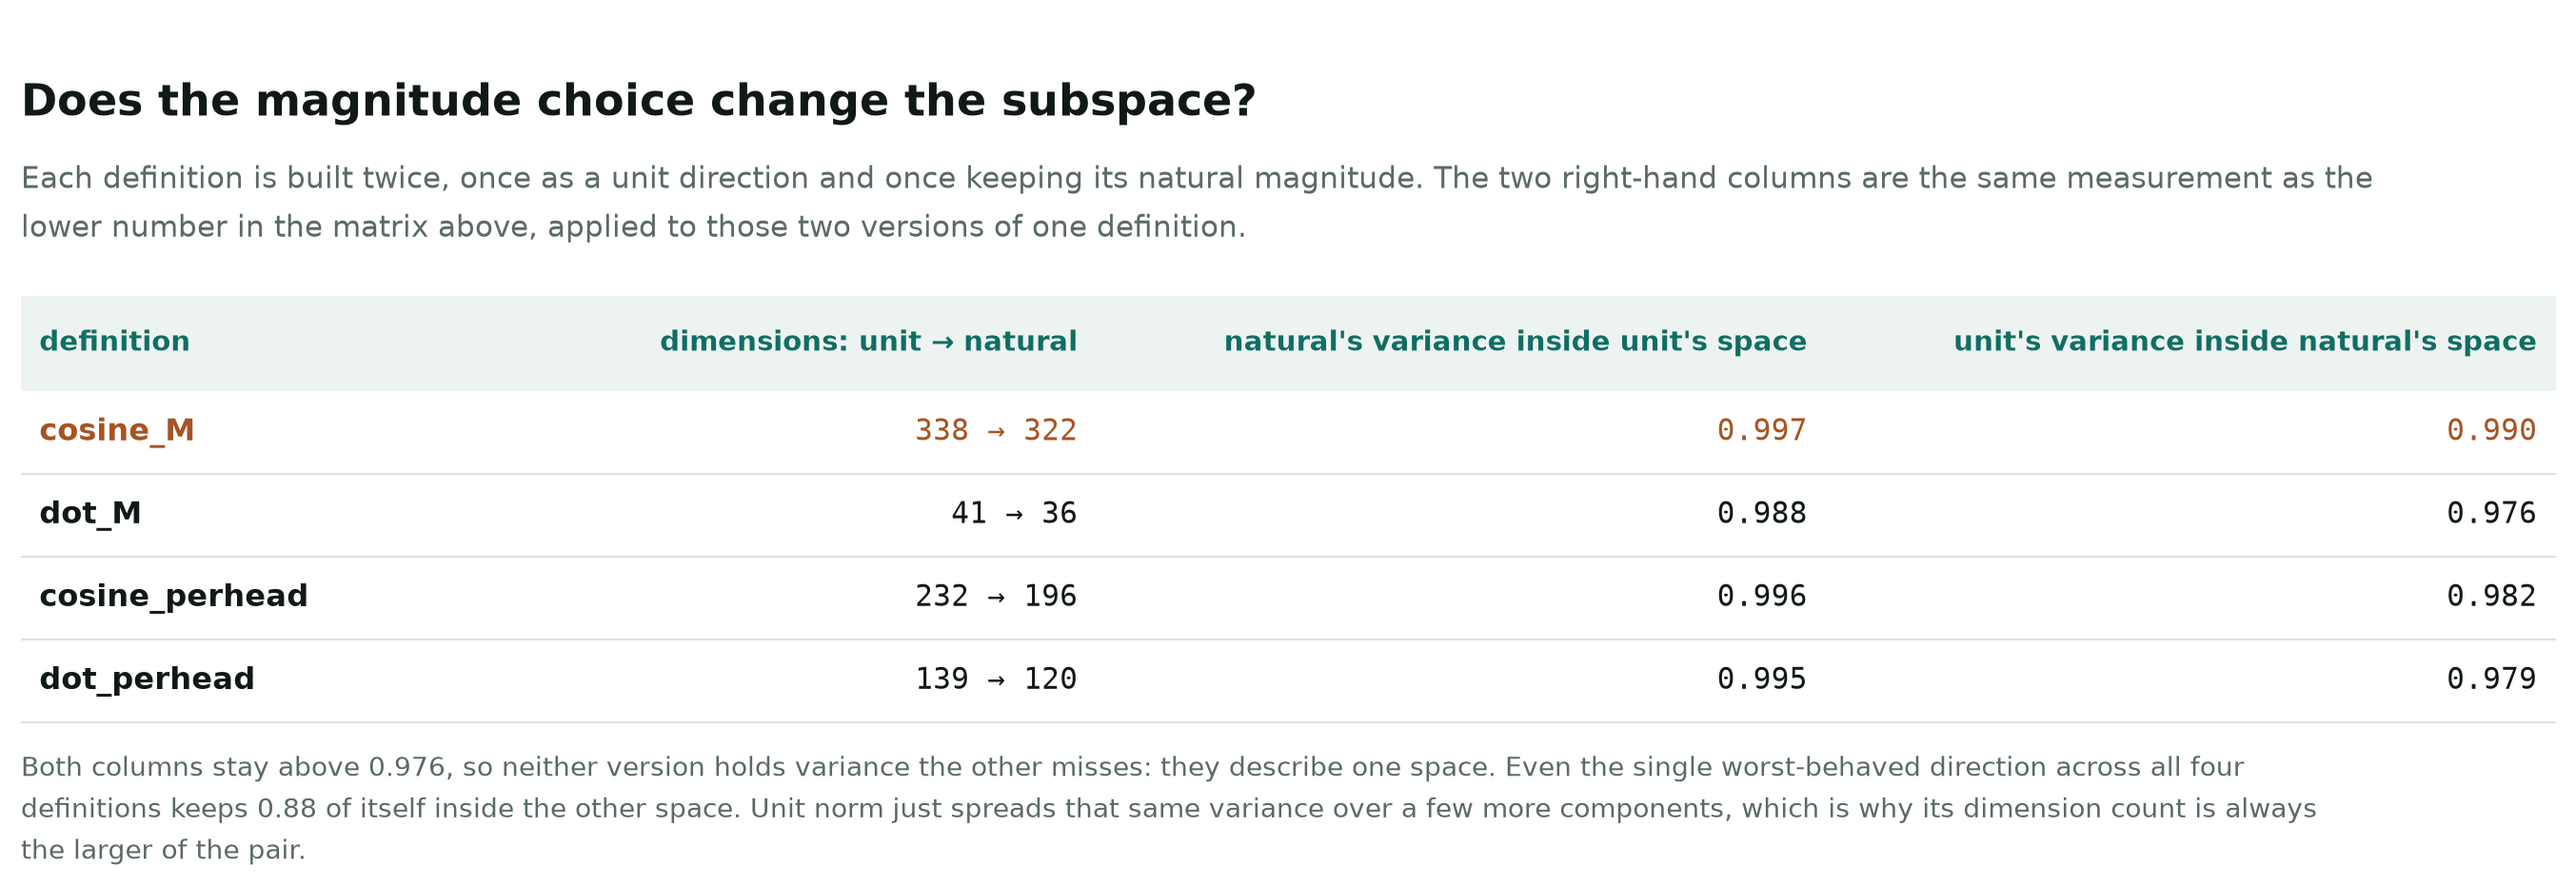
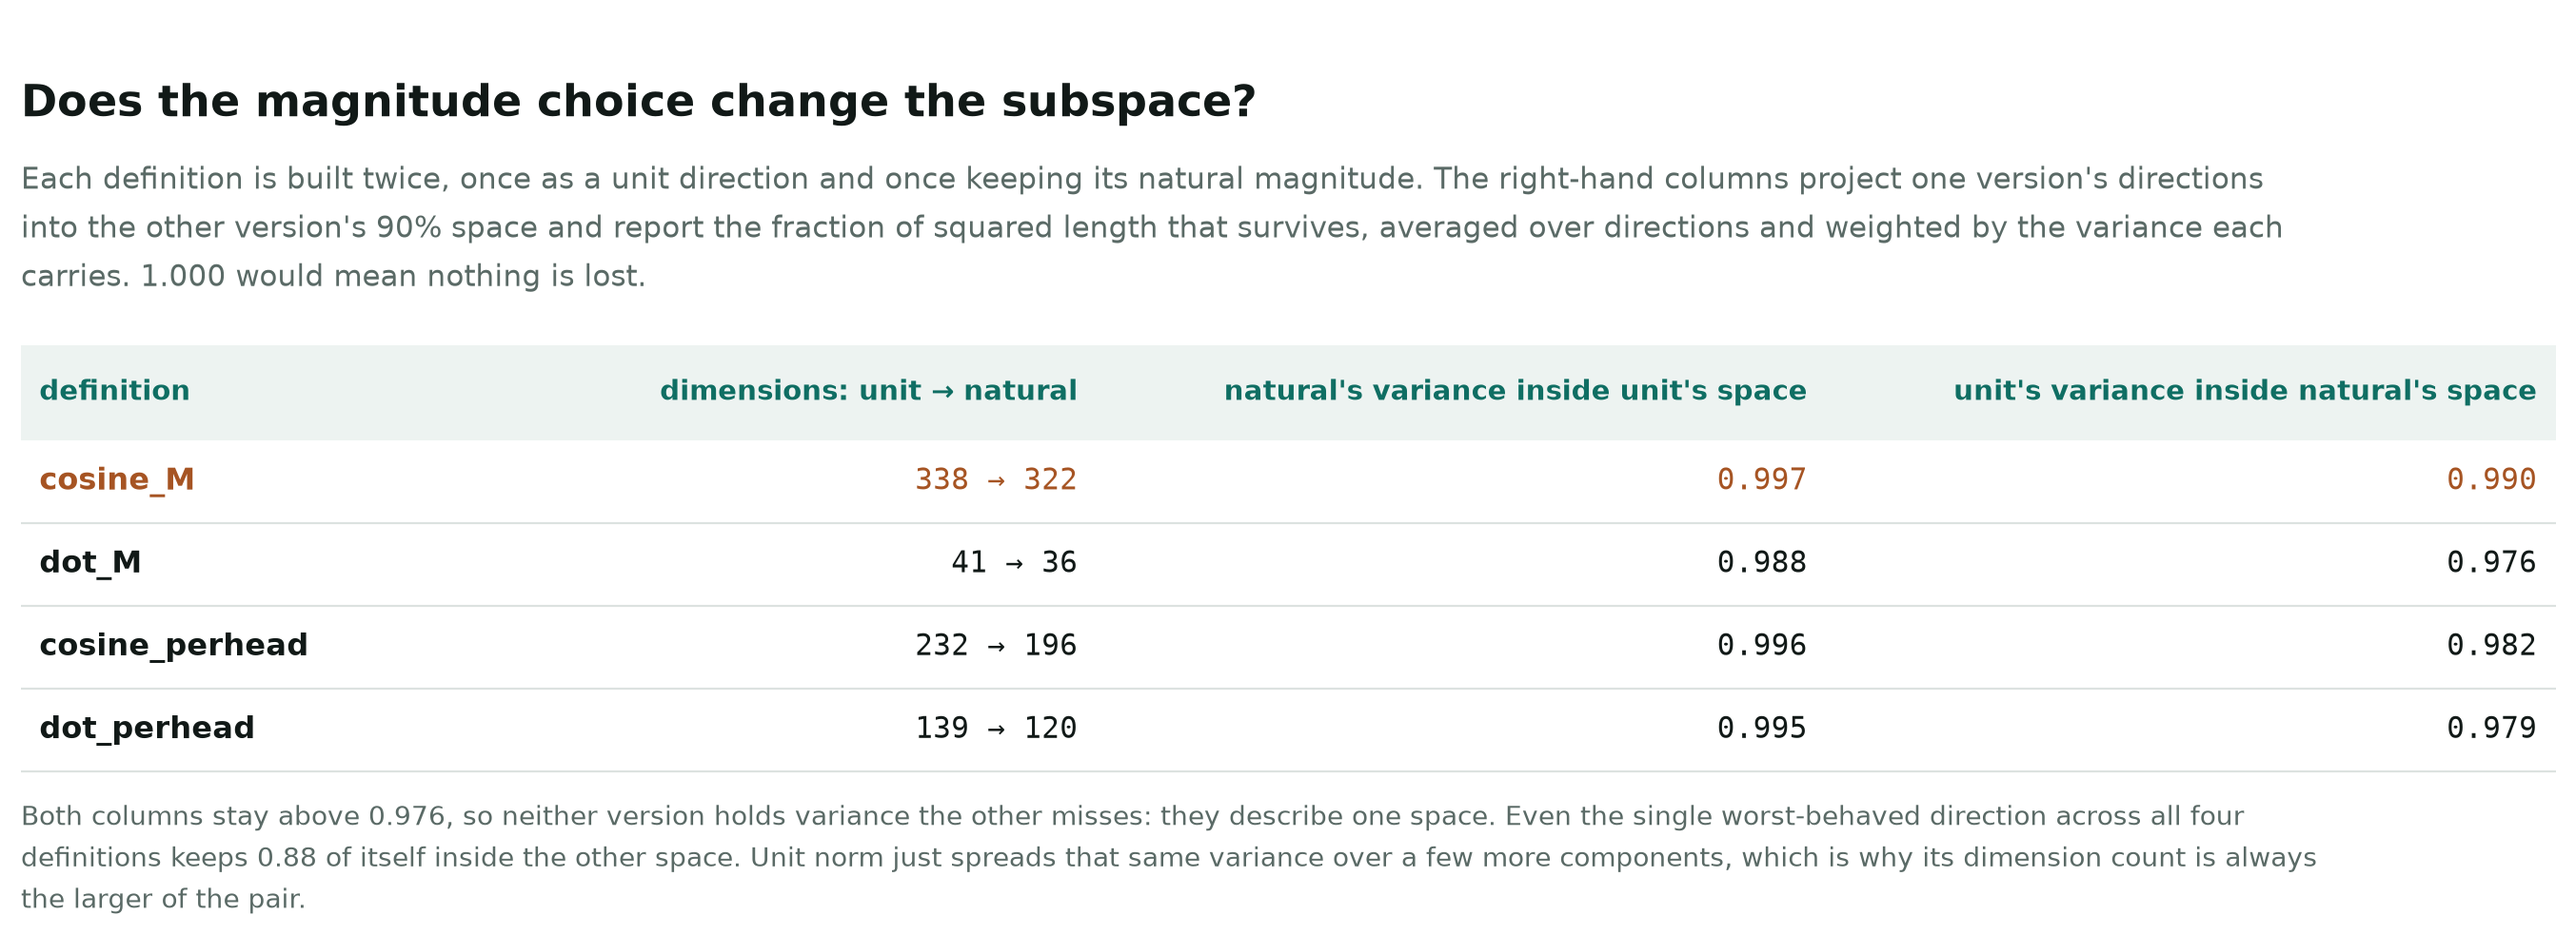
Repeat the 'lies inside a space' definition in the magnitude section and its table caption

diff --git a/src/eval_scripts/make_readdir_writeup_assets.py b/src/eval_scripts/make_readdir_writeup_assets.py
@@ -237,8 +237,9 @@ def fig4_containment():
         rows, [1.3, 1.5, 1.9, 1.9],
         "Does the magnitude choice change the subspace?",
         "Each definition is built twice, once as a unit direction and once keeping its natural "
-        "magnitude. The two right-hand columns are the same measurement as the lower number in the "
-        "matrix above, applied to those two versions of one definition.",
+        "magnitude. The right-hand columns project one version's directions into the other version's "
+        "90% space and report the fraction of squared length that survives, averaged over directions "
+        "and weighted by the variance each carries. 1.000 would mean nothing is lost.",
         note=f"Both columns stay above 0.976, so neither version holds variance the other misses: "
              f"they describe one space. Even the single worst-behaved direction across all four "
              f"definitions keeps {worst:.2f} of itself inside the other space. Unit norm just "
